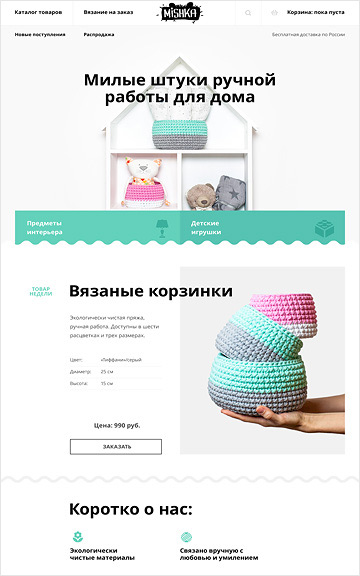
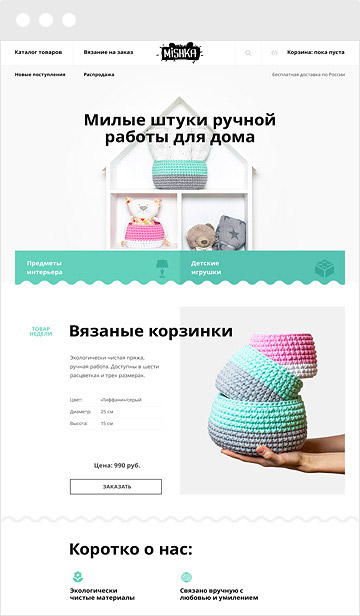
состояния ссылок шапки

diff --git a/css/style.css b/css/style.css
@@ -32,6 +32,15 @@ body {
   margin-right: auto;
 }
 
+.main-header__logo:hover{
+  opacity: 0.8;
+}
+
+.main-header__logo:active {
+  opacity: 0.3;
+}
+
+
 .main-header__nav {
   margin: auto;
 }
@@ -50,7 +59,34 @@ body {
   font-weight: 500;
   color: #000000;
   text-transform: uppercase;
+  position: relative;
+  padding-bottom: 11px;
 }
+
+.main-header__nav a::before {
+  content: "";
+  position: absolute;
+  width: 100%;
+  height: 2px;
+  background-color: #fb565a;
+  bottom: 0;
+  left: 0;
+  display: none;
+}
+
+.main-header__nav a:hover {
+  color: #fb565a;
+}
+
+.main-header__nav a:active {
+  color: #bababa;
+}
+
+.main-header__nav a:focus:before {
+  display: block;
+}
+
+
 
 .main-header__nav li {
   margin-right: 45px;
@@ -58,7 +94,26 @@ body {
 
 .main-header__basket {
   margin-left: auto;
+  
 }
+
+.main-header__basket a {
+padding-left: 42px;
+  position: relative;
+
+}
+
+.main-header__basket a::after {
+  position: absolute;
+  content: "";
+width: 15px;
+height: 15px;
+background: url(../img/cart-icon.png) no-repeat;
+left: 0;
+top: 2px;
+}
+
+
 
 .main-header__basket a {
   font-size: 16px;
@@ -67,6 +122,30 @@ body {
   color: #000000;
   text-transform: uppercase;
   text-decoration: none;
+  padding-bottom: 11px;
+}
+
+.main-header__basket a::before {
+  content: "";
+  position: absolute;
+  width: 100%;
+  height: 2px;
+  background-color: #fb565a;
+  bottom: 0;
+  left: 0;
+  display: none;
+}
+
+.main-header__basket a:hover {
+  color: #fb565a;
+}
+
+.main-header__basket a:active {
+  color: #bababa;
+}
+
+.main-header__basket a:focus::before {
+  display: block;
 }
 
 .slider {
@@ -805,6 +884,7 @@ border-radius: 2px;
   bottom: 0;
   left: 0;
   background-color: #eeeeee;
+  display: none;
 }
 
 .catalog-preview-hover p {
